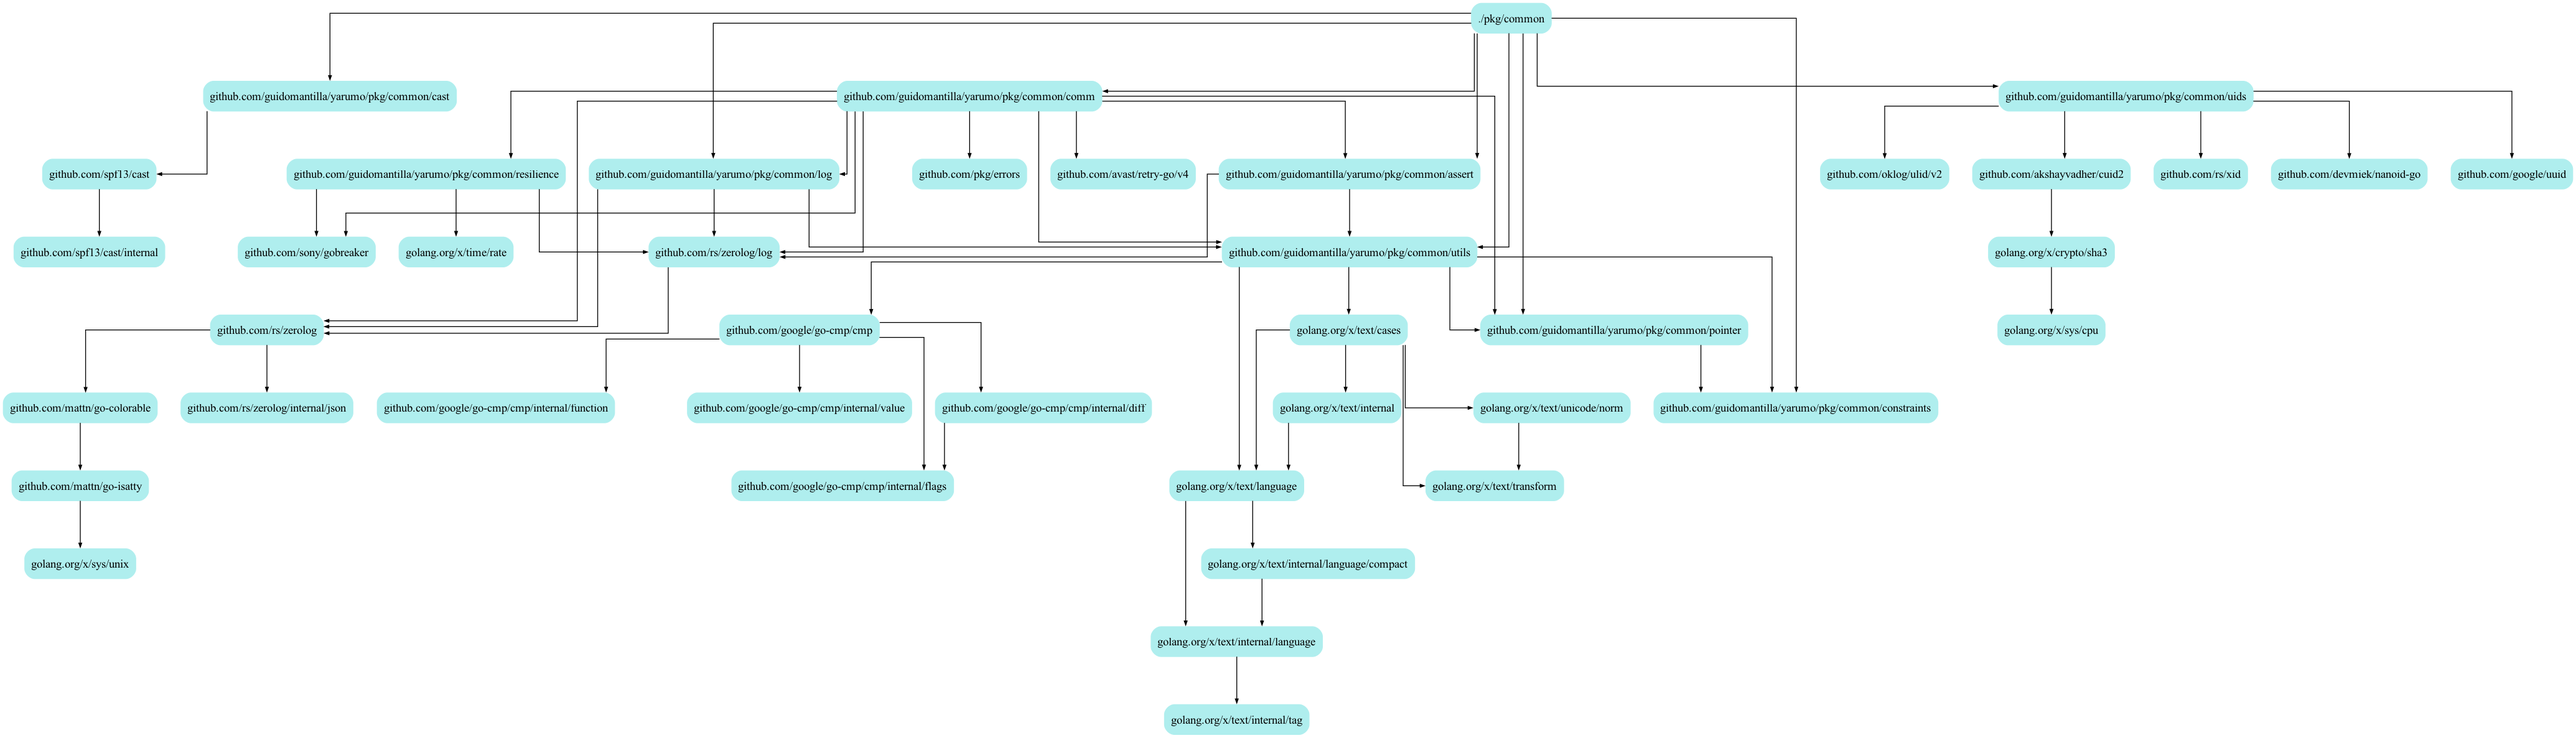
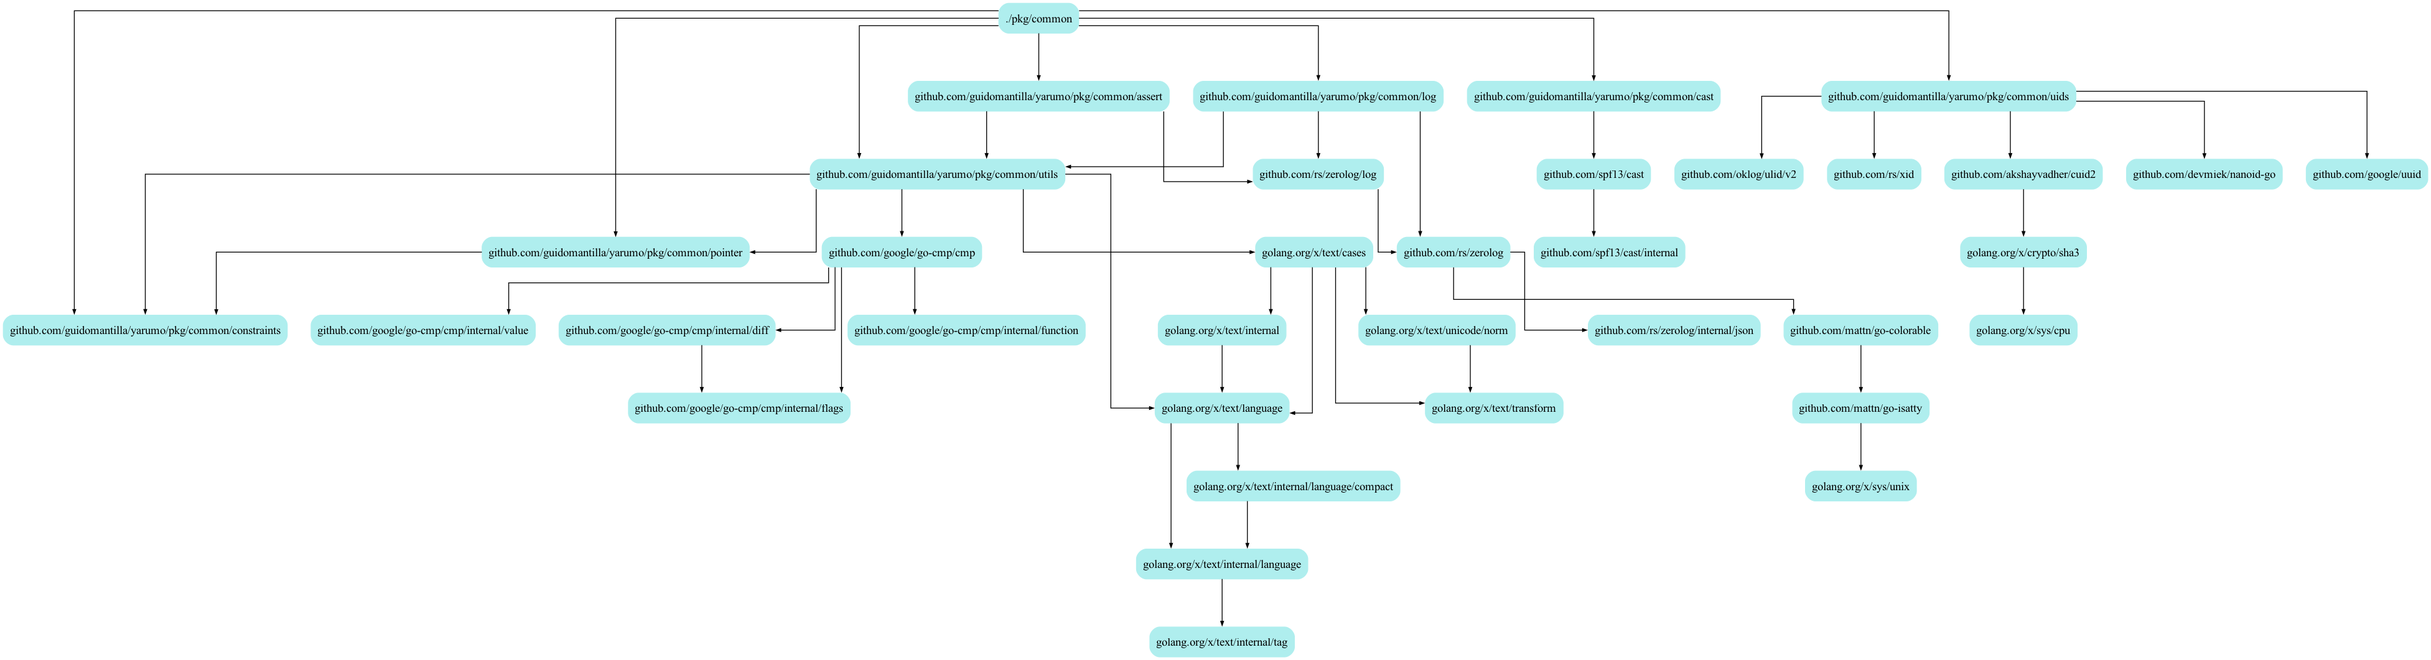
updates

diff --git a/pkg/boot/container_options.go b/pkg/boot/container_options.go
@@ -2,13 +2,13 @@ package boot
 
 import (
 	validator "github.com/go-playground/validator/v10"
-	resilience2 "github.com/guidomantilla/yarumo/pkg/resilience"
 	"github.com/rs/zerolog"
 
-	"github.com/guidomantilla/yarumo/pkg/common/comm"
+	comm "github.com/guidomantilla/yarumo/pkg/comm"
 	clog "github.com/guidomantilla/yarumo/pkg/common/log"
 	"github.com/guidomantilla/yarumo/pkg/common/pointer"
 	"github.com/guidomantilla/yarumo/pkg/common/uids"
+	resilience "github.com/guidomantilla/yarumo/pkg/resilience"
 	"github.com/guidomantilla/yarumo/pkg/security/cryptos"
 	"github.com/guidomantilla/yarumo/pkg/security/hashes"
 	"github.com/guidomantilla/yarumo/pkg/security/passwords"
@@ -28,8 +28,8 @@ type ContainerOptions struct {
 	passwordManager        passwords.Manager
 	tokenGenerator         tokens.Generator
 	cipher                 cryptos.Cipher
-	rateLimiterRegistry    *resilience2.RateLimiterRegistry
-	circuitBreakerRegistry *resilience2.CircuitBreakerRegistry
+	rateLimiterRegistry    *resilience.RateLimiterRegistry
+	circuitBreakerRegistry *resilience.CircuitBreakerRegistry
 	httpClient             comm.HTTPClient
 	more                   map[string]any
 }
@@ -48,8 +48,8 @@ func NewContainerOptions[C any](name string, version string, opts ...ContainerOp
 		passwordManager:        nil,
 		tokenGenerator:         tokens.NewJwtGenerator(tokens.WithJwtIssuer(name)),
 		cipher:                 cryptos.NewAesCipher(),
-		rateLimiterRegistry:    resilience2.NewRateLimiterRegistry(),
-		circuitBreakerRegistry: resilience2.NewCircuitBreakerRegistry(),
+		rateLimiterRegistry:    resilience.NewRateLimiterRegistry(),
+		circuitBreakerRegistry: resilience.NewCircuitBreakerRegistry(),
 		httpClient:             comm.NewHTTPClient(),
 		more:                   make(map[string]any),
 	}

diff --git a/pkg/comm/http_transport.go b/pkg/comm/http_transport.go
@@ -3,7 +3,6 @@ package comm
 import (
 	"errors"
 	"fmt"
-	resilience2 "github.com/guidomantilla/yarumo/pkg/resilience"
 	"net/http"
 	"time"
 
@@ -12,16 +11,17 @@ import (
 	"github.com/sony/gobreaker"
 
 	"github.com/guidomantilla/yarumo/pkg/common/assert"
+	resilience "github.com/guidomantilla/yarumo/pkg/resilience"
 )
 
 type HttpTransport struct {
 	maxRetries             uint
-	rateLimiterRegistry    *resilience2.RateLimiterRegistry
-	circuitBreakerRegistry *resilience2.CircuitBreakerRegistry
+	rateLimiterRegistry    *resilience.RateLimiterRegistry
+	circuitBreakerRegistry *resilience.CircuitBreakerRegistry
 	next                   http.RoundTripper
 }
 
-func NewHttpTransport(rateLimiterRegistry *resilience2.RateLimiterRegistry, circuitBreakerRegistry *resilience2.CircuitBreakerRegistry, opts ...HttpTransportOption) *HttpTransport {
+func NewHttpTransport(rateLimiterRegistry *resilience.RateLimiterRegistry, circuitBreakerRegistry *resilience.CircuitBreakerRegistry, opts ...HttpTransportOption) *HttpTransport {
 	assert.NotEmpty(rateLimiterRegistry, fmt.Sprintf("%s - error creating: rateLimiterRegistry is empty", "http-transport"))
 	assert.NotEmpty(circuitBreakerRegistry, fmt.Sprintf("%s - error creating: circuitBreakerRegistry is empty", "http-transport"))
 	options := NewHttpTransportOptions(opts...)

diff --git a/pkg/boot/container.go b/pkg/boot/container.go
@@ -2,12 +2,12 @@ package boot
 
 import (
 	validator "github.com/go-playground/validator/v10"
-	resilience2 "github.com/guidomantilla/yarumo/pkg/resilience"
 	"github.com/rs/zerolog"
 
-	"github.com/guidomantilla/yarumo/pkg/common/comm"
+	"github.com/guidomantilla/yarumo/pkg/comm"
 	"github.com/guidomantilla/yarumo/pkg/common/pointer"
 	"github.com/guidomantilla/yarumo/pkg/common/uids"
+	resilience "github.com/guidomantilla/yarumo/pkg/resilience"
 	"github.com/guidomantilla/yarumo/pkg/security/cryptos"
 	"github.com/guidomantilla/yarumo/pkg/security/hashes"
 	"github.com/guidomantilla/yarumo/pkg/security/passwords"
@@ -27,8 +27,8 @@ type Container struct {
 	PasswordManager        passwords.Manager
 	TokenGenerator         tokens.Generator
 	Cipher                 cryptos.Cipher
-	RateLimiterRegistry    *resilience2.RateLimiterRegistry
-	CircuitBreakerRegistry *resilience2.CircuitBreakerRegistry
+	RateLimiterRegistry    *resilience.RateLimiterRegistry
+	CircuitBreakerRegistry *resilience.CircuitBreakerRegistry
 	HttpClient             comm.HTTPClient
 	more                   map[string]any
 }

diff --git a/pkg/comm/http_client_options.go b/pkg/comm/http_client_options.go
@@ -1,11 +1,11 @@
 package comm
 
 import (
-	resilience2 "github.com/guidomantilla/yarumo/pkg/resilience"
 	"net/http"
 	"time"
 
 	"github.com/guidomantilla/yarumo/pkg/common/utils"
+	resilience "github.com/guidomantilla/yarumo/pkg/resilience"
 )
 
 type HttpClientOptions struct {
@@ -16,7 +16,7 @@ type HttpClientOptions struct {
 func NewHttpClientOptions(opts ...HttpClientOption) *HttpClientOptions {
 	options := &HttpClientOptions{
 		timeout:   0,
-		transport: NewHttpTransport(resilience2.NewRateLimiterRegistry(), resilience2.NewCircuitBreakerRegistry()),
+		transport: NewHttpTransport(resilience.NewRateLimiterRegistry(), resilience.NewCircuitBreakerRegistry()),
 	}
 
 	for _, opt := range opts {

diff --git a/internal/options.go b/internal/options.go
@@ -8,7 +8,7 @@ import (
 
 	"github.com/guidomantilla/yarumo/internal/core"
 	"github.com/guidomantilla/yarumo/pkg/boot"
-	"github.com/guidomantilla/yarumo/pkg/common/comm"
+	comm "github.com/guidomantilla/yarumo/pkg/comm"
 	"github.com/guidomantilla/yarumo/pkg/common/utils"
 	"github.com/guidomantilla/yarumo/pkg/security/cryptos"
 	"github.com/guidomantilla/yarumo/pkg/security/tokens"

diff --git a/pkg/common/graph.go b/pkg/common/graph.go
@@ -3,7 +3,6 @@ package common
 import (
 	_ "github.com/guidomantilla/yarumo/pkg/common/assert"
 	_ "github.com/guidomantilla/yarumo/pkg/common/cast"
-	_ "github.com/guidomantilla/yarumo/pkg/common/comm"
 	_ "github.com/guidomantilla/yarumo/pkg/common/constraints"
 	_ "github.com/guidomantilla/yarumo/pkg/common/log"
 	_ "github.com/guidomantilla/yarumo/pkg/common/pointer"

diff --git a/internal/main.go b/internal/main.go
@@ -8,7 +8,7 @@ import (
 
 	"github.com/guidomantilla/yarumo/internal/core"
 	"github.com/guidomantilla/yarumo/pkg/boot"
-	"github.com/guidomantilla/yarumo/pkg/common/comm"
+	comm "github.com/guidomantilla/yarumo/pkg/comm"
 	"github.com/guidomantilla/yarumo/pkg/common/pointer"
 	"github.com/guidomantilla/yarumo/pkg/servers"
 )

diff --git a/pkg/metrics/http_round_tripper_metrics.go b/pkg/metrics/http_round_tripper_metrics.go
@@ -6,7 +6,7 @@ import (
 
 	"github.com/prometheus/client_golang/prometheus"
 
-	"github.com/guidomantilla/yarumo/pkg/common/comm"
+	"github.com/guidomantilla/yarumo/pkg/comm"
 )
 
 type HttpMetricsRoundTripper struct {
